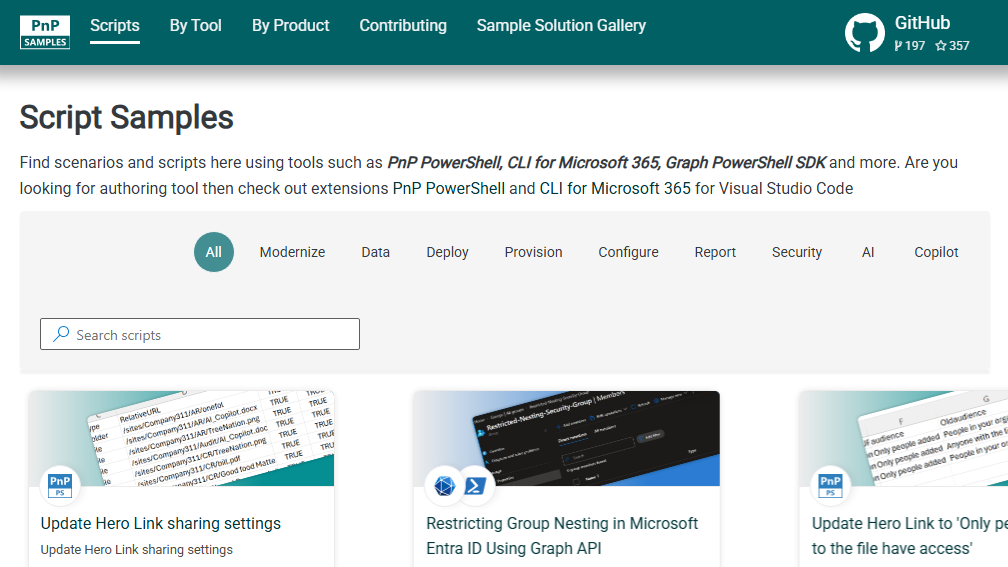
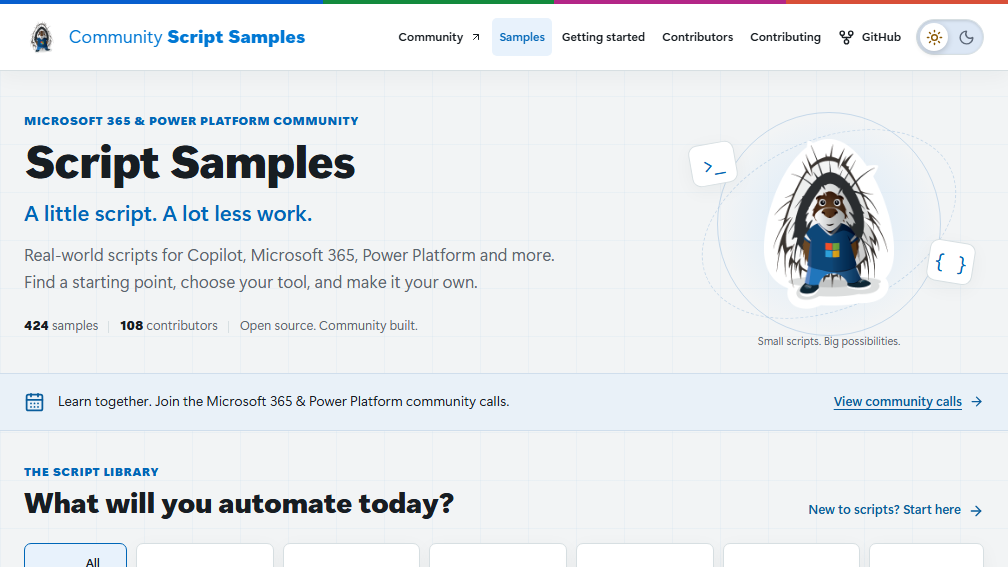
Refresh Script Samples portal preview

diff --git a/assets/images/samples/README.md b/assets/images/samples/README.md
@@ -2,6 +2,8 @@
 
 These 1008-by-567 PNG sources were captured from the public destinations listed in `content/samples` on 2026-11-14. Captures are cropped to the browser's actual content area, excluding unused screenshot-canvas space. GitHub previews show public repository or wiki content, not account navigation.
 
+The Script Samples preview was refreshed on 2026-11-17 to show its redesigned portal.
+
 The sample record's `image` points to its source here. The shared resource-image partial generates 480- and 960-pixel JPEG variants with explicit dimensions, responsive `sizes`, lazy loading, and asynchronous decoding. Source PNGs retain readable text for future processing; the originals are not sent as the card image.
 
 Sample records use:
